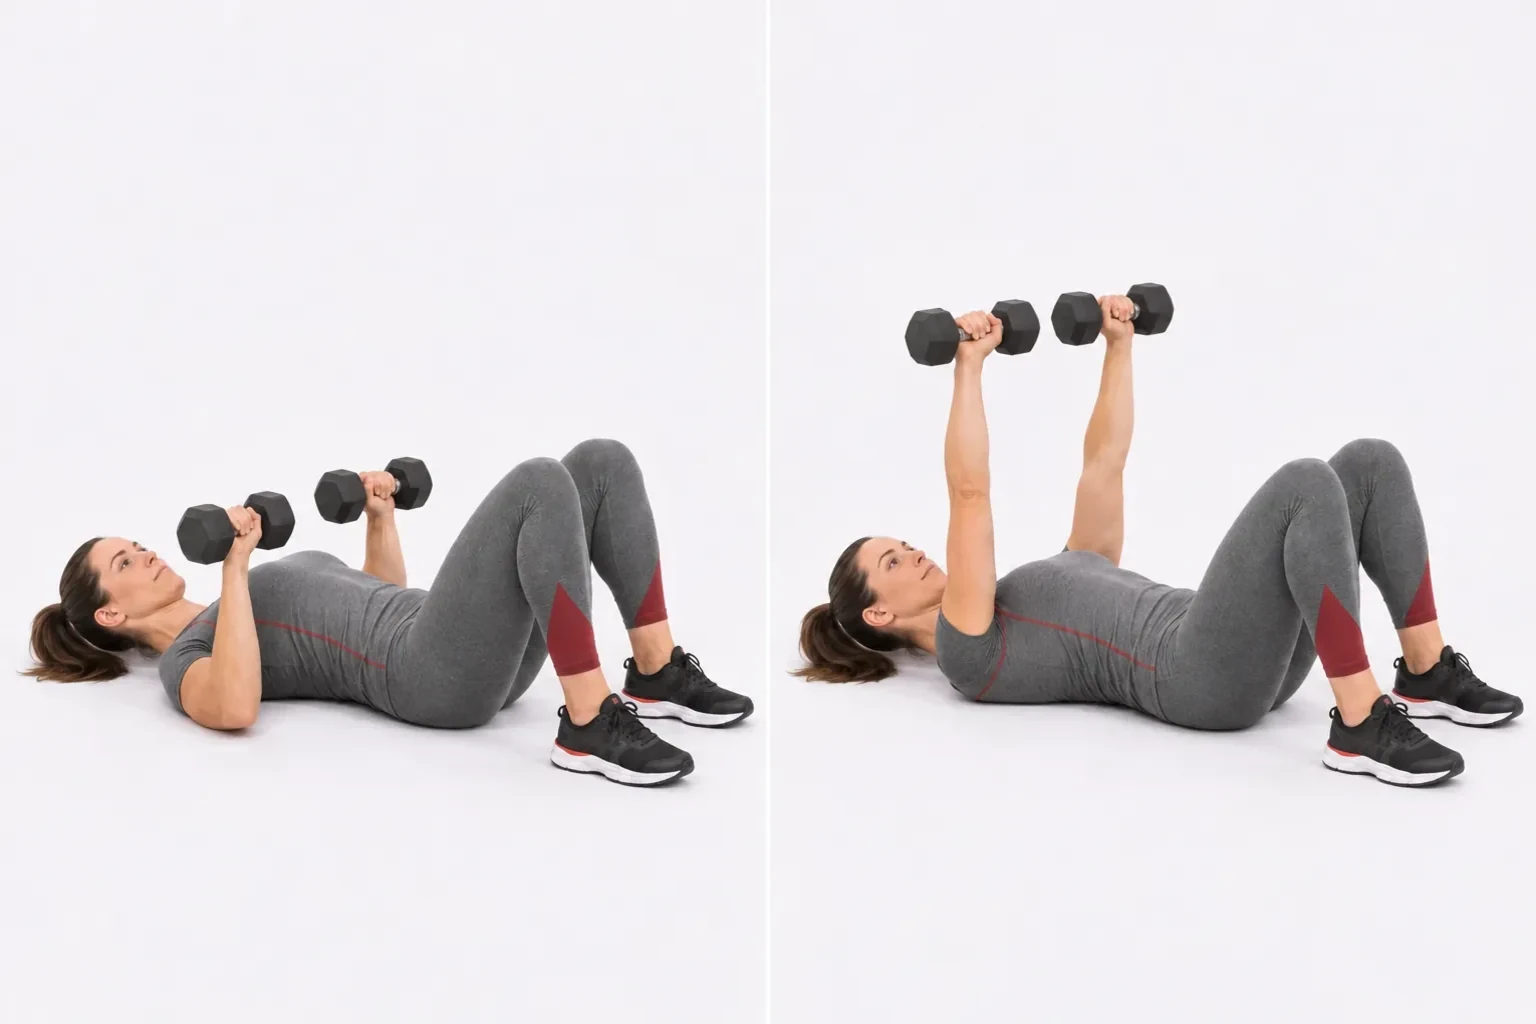
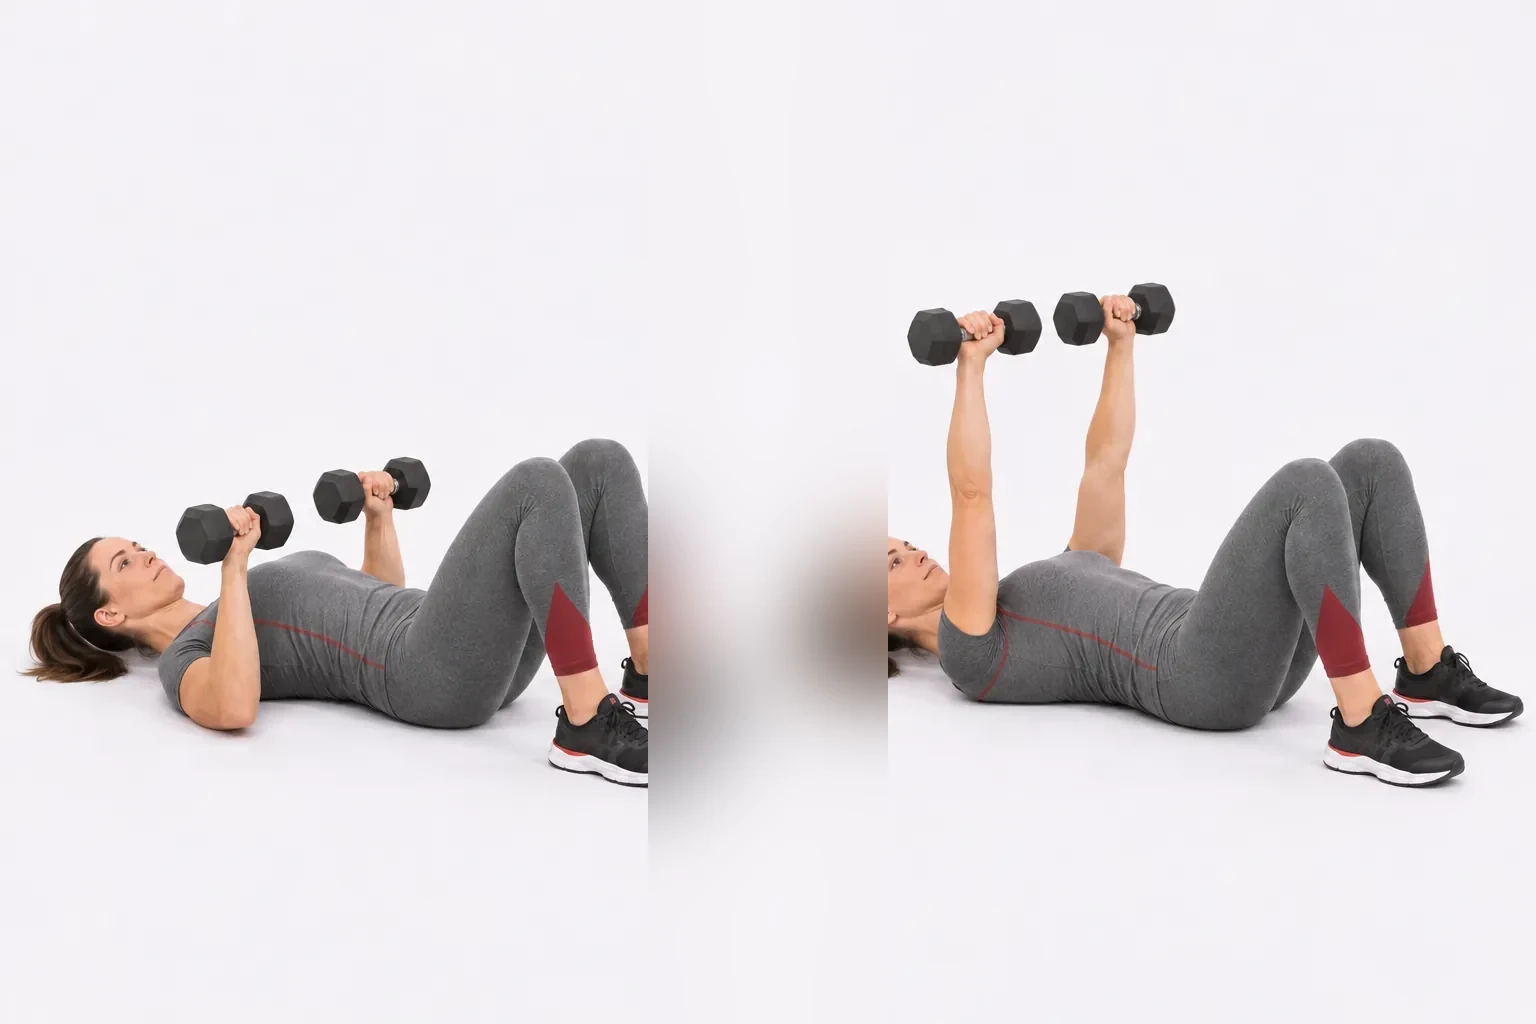
refactor: simplify composite image processing

diff --git a/assets/exercise-images/README.md b/assets/exercise-images/README.md
@@ -8,6 +8,6 @@ Generate a reviewed 1536 x 1024 PNG for each `<exercise>-<variant>` pair in `ref
 ./scripts/process-exercise-images.sh
 ```
 
-The pinned ImageMagick container validates dimensions, applies any reviewed center cleanup from `processing.tsv`, removes metadata, and writes optimized composite WebP application assets. Source PNGs under `reference/` are temporary and must not be committed.
+The pinned ImageMagick container validates dimensions, removes metadata, and writes optimized composite WebP application assets. Source PNGs under `reference/` are temporary and must not be committed.
 
 See `.agents/skills/exercise-image-generation/` for the complete generation and review workflow.
